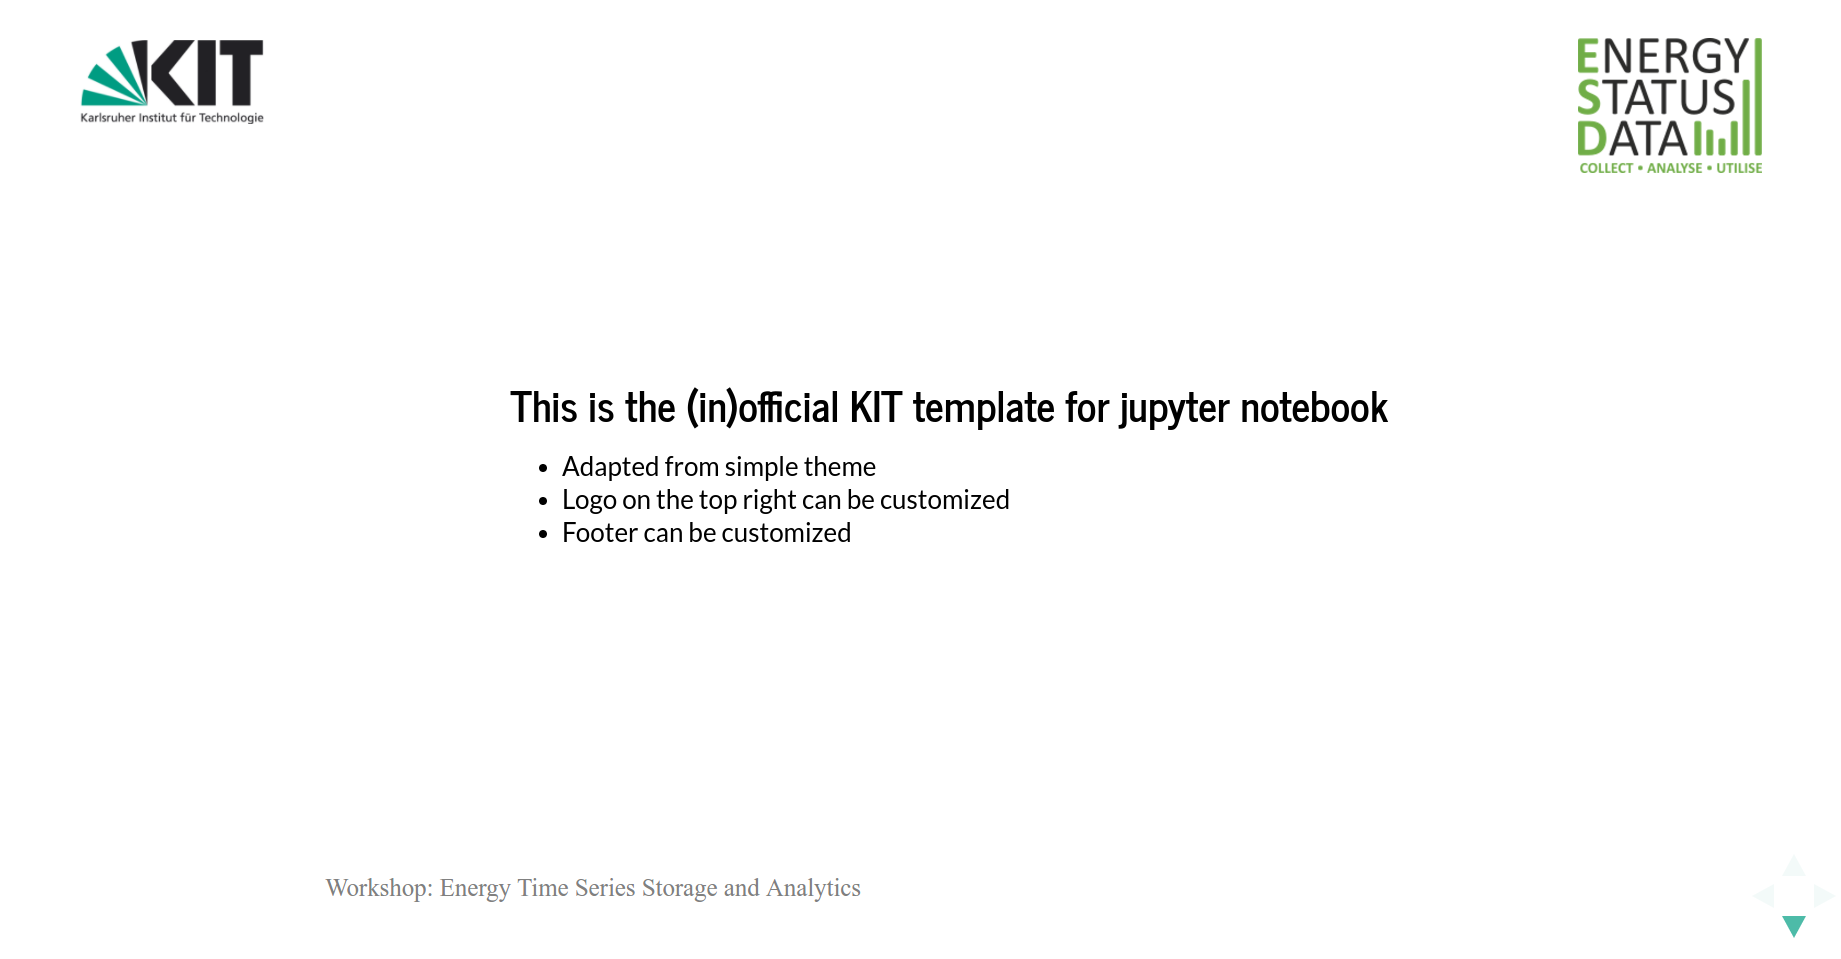
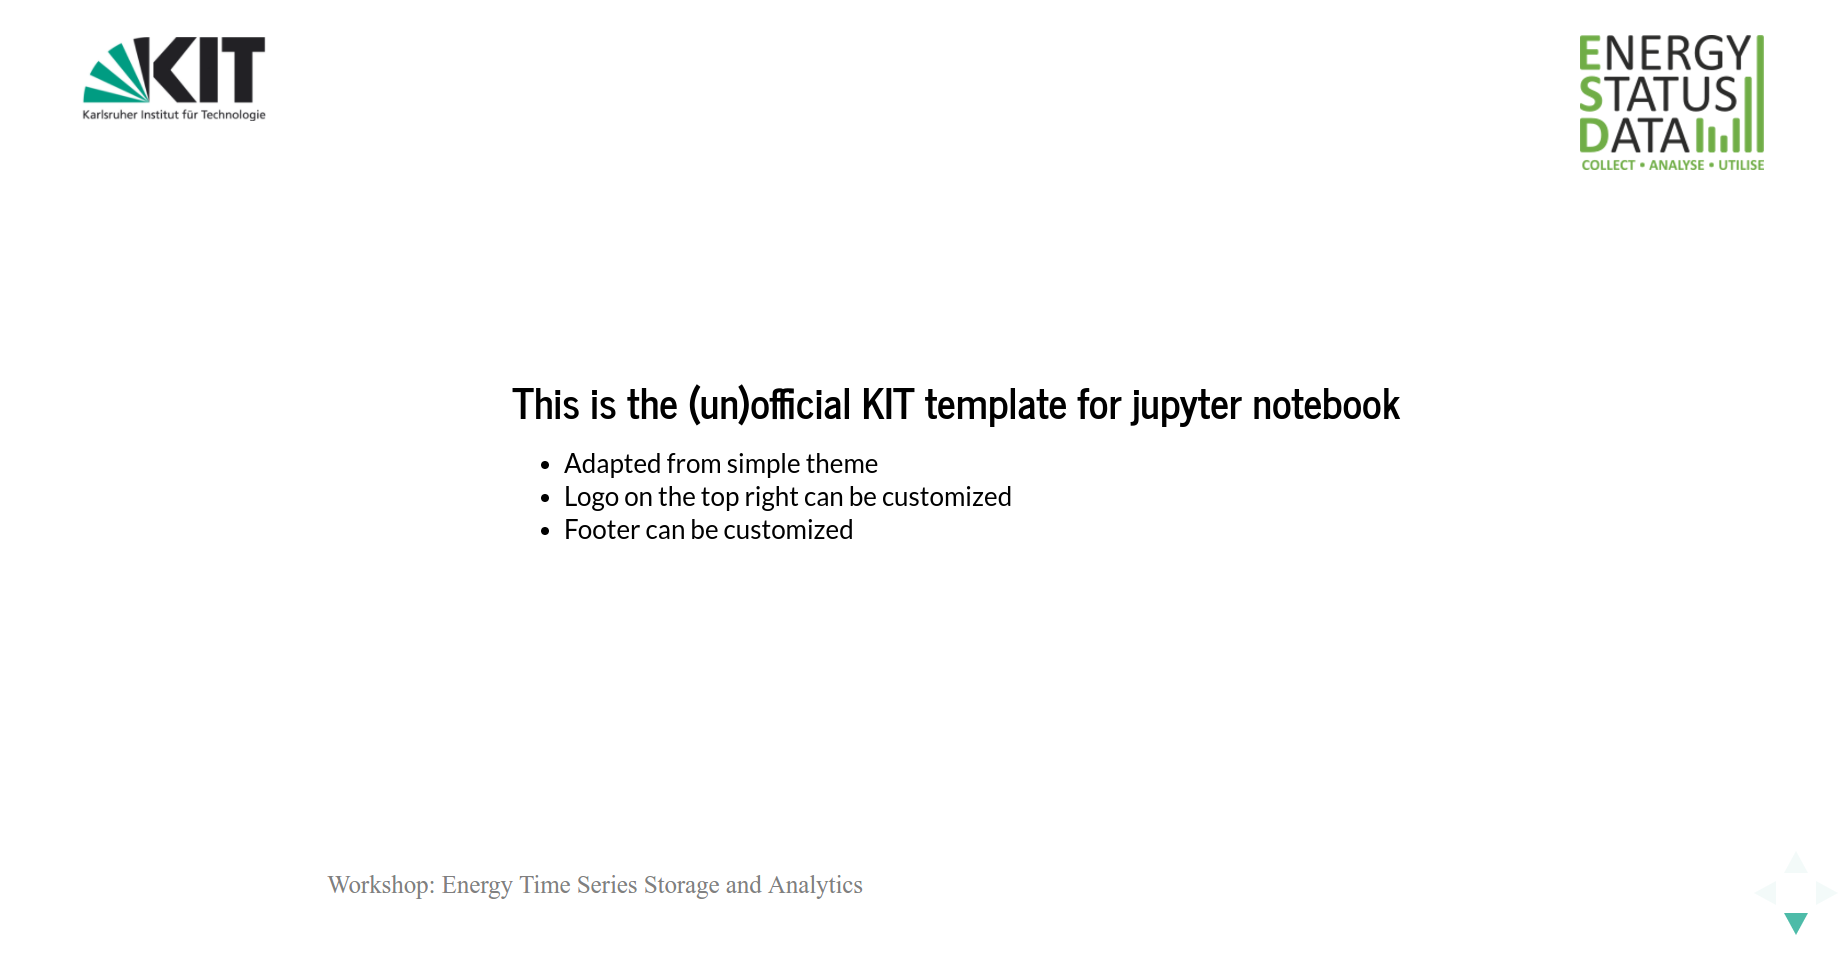
license, trademark, typos

diff --git a/slides.slides.html b/slides.slides.html
@@ -11830,7 +11830,7 @@ a.anchor-link {
 </div>
 <div class="inner_cell">
 <div class="text_cell_render border-box-sizing rendered_html">
-<h2 id="This-is-the-(in)official-KIT-template-for-jupyter-notebook">This is the (in)official KIT template for jupyter notebook<a class="anchor-link" href="#This-is-the-(in)official-KIT-template-for-jupyter-notebook">&#182;</a></h2><ul>
+<h2 id="This-is-the-(un)official-KIT-template-for-jupyter-notebook">This is the (un)official KIT template for jupyter notebook<a class="anchor-link" href="#This-is-the-(un)official-KIT-template-for-jupyter-notebook">&#182;</a></h2><ul>
 <li>Adapted from simple theme</li>
 <li>Logo on the top right can be customized</li>
 <li>Footer can be customized</li>

diff --git a/README.md b/README.md
@@ -1,8 +1,8 @@
 # kit-jupyter-slides-theme
 
-(in)official css theme for KIT presentations with jupyter notebook slideshow
+- (un)official css theme for KIT presentations with jupyter notebook slideshow
 
-This folder contains some `css` and images to customize jupyter notebook presentation to for KIT presentations. It is reponsible and further customizable. 
+This repository contains some `css` and images to customize jupyter notebook presentation for KIT presentations. It is responsible and further customizable. 
 
 # Try it
 
@@ -11,22 +11,22 @@ This folder contains some `css` and images to customize jupyter notebook present
 
 This should give you something like this: 
 
-![screenshot](/img/screen1.png)
+![screenshot](/screen1.png)
 
 # How to use it
 
-- Clone the repository 
-- Put the `custom.css` file and `ìmg` folder where your slides (`.ipynb`) lives
-- execute `jupyter nbconvert <yourslides>.ipynb --to slides --post serve`
+- Clone this repository 
+- Put the `custom.css` file and `ìmg` folder where your notebook (`.ipynb`) lives
+- execute `jupyter nbconvert <yournotebook>.ipynb --to slides --post serve`
 
 # Customize it
 
-Modify whatever you want in the `css` file (this is pretty straightforward)
+Modify whatever you want in the `css` file (this is pretty straightforward).
 
 For example:
-- The two logo
-- The name of the slide in the footer
-- The colors on the arrow and progress bar 
+- Change the logos / logo paths
+- The name in the footer
+- The colors on the arrows and progress bar 
 
 # Still to do
 
